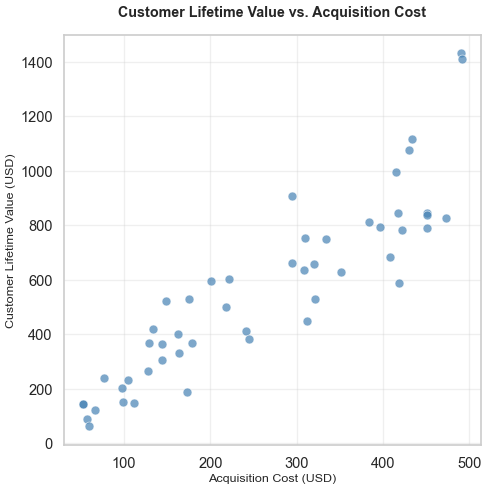
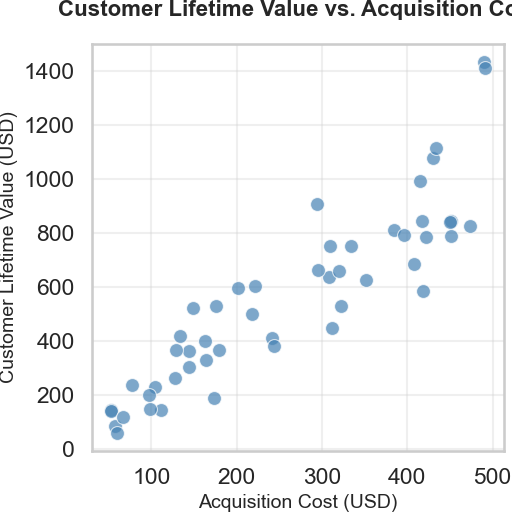
Add files via upload

diff --git a/5/chart.py b/5/chart.py
@@ -13,7 +13,6 @@ num_points = 50
 acquisition_cost = np.random.uniform(50, 500, num_points)
 
 # Lifetime value with positive correlation to acquisition cost + noise
-# Higher acquisition costs generally lead to higher value customers
 lifetime_value = acquisition_cost * np.random.uniform(1.5, 3.0, num_points) + np.random.normal(0, 50, num_points)
 
 # Create DataFrame
@@ -26,8 +25,8 @@ df = pd.DataFrame({
 sns.set_style('whitegrid')
 sns.set_context('talk')  # Presentation-ready text sizes
 
-# Create figure with specific size for 512x512px at 64 dpi
-plt.figure(figsize=(8, 8))
+# FIXED: Use figsize=(5.12, 5.12) with dpi=100 to get exactly 512x512 pixels
+plt.figure(figsize=(5.12, 5.12), dpi=100)
 
 # Create scatterplot using sns.scatterplot()
 scatter = sns.scatterplot(
@@ -48,14 +47,14 @@ plt.ylabel('Customer Lifetime Value (USD)', fontsize=14)
 # Add grid for better readability
 plt.grid(True, alpha=0.3)
 
-# Adjust layout to prevent label cutoff
-plt.tight_layout()
+# FIXED: Use tight_layout with pad=0 and remove bbox_inches='tight'
+plt.tight_layout(pad=0)
 
-# Save chart with exact specifications
-plt.savefig('chart.png', dpi=64, bbox_inches='tight', 
+# FIXED: Save chart without bbox_inches='tight' to maintain exact dimensions
+plt.savefig('chart.png', dpi=100, bbox_inches=None, 
             facecolor='white', edgecolor='none')
 
 # Close the plot to free memory
 plt.close()
 
-print("Chart successfully generated as 'chart.png' with 512x512 dimensions")
+print("Chart successfully generated as 'chart.png' with exactly 512x512 dimensions")
